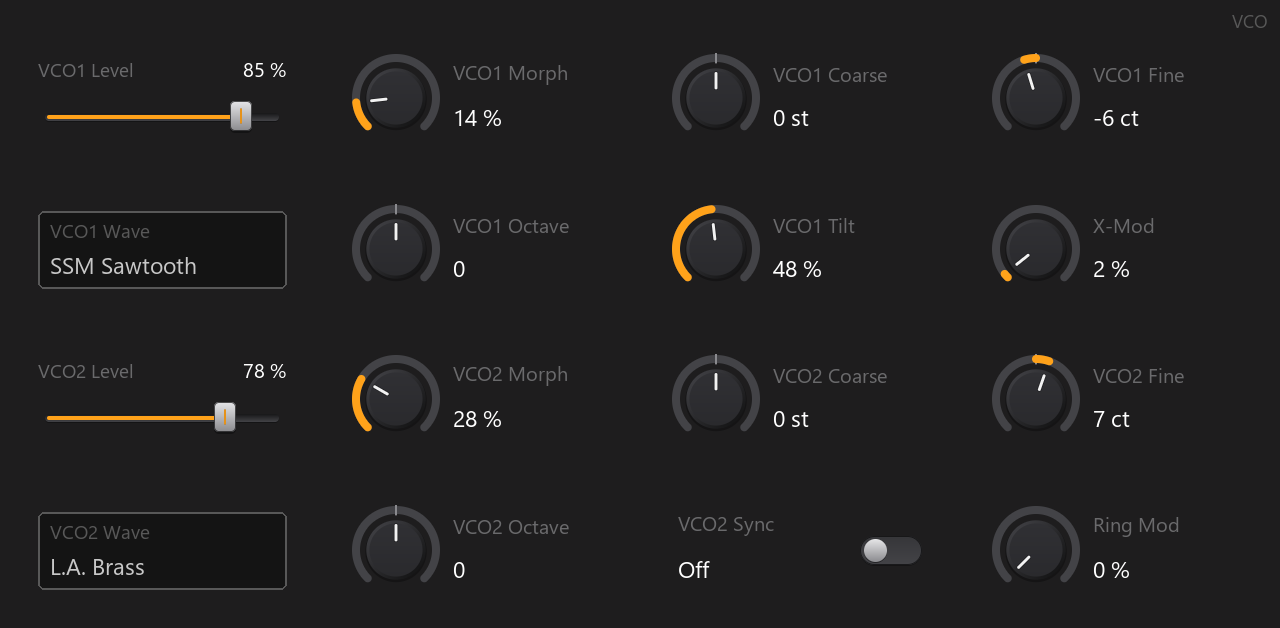
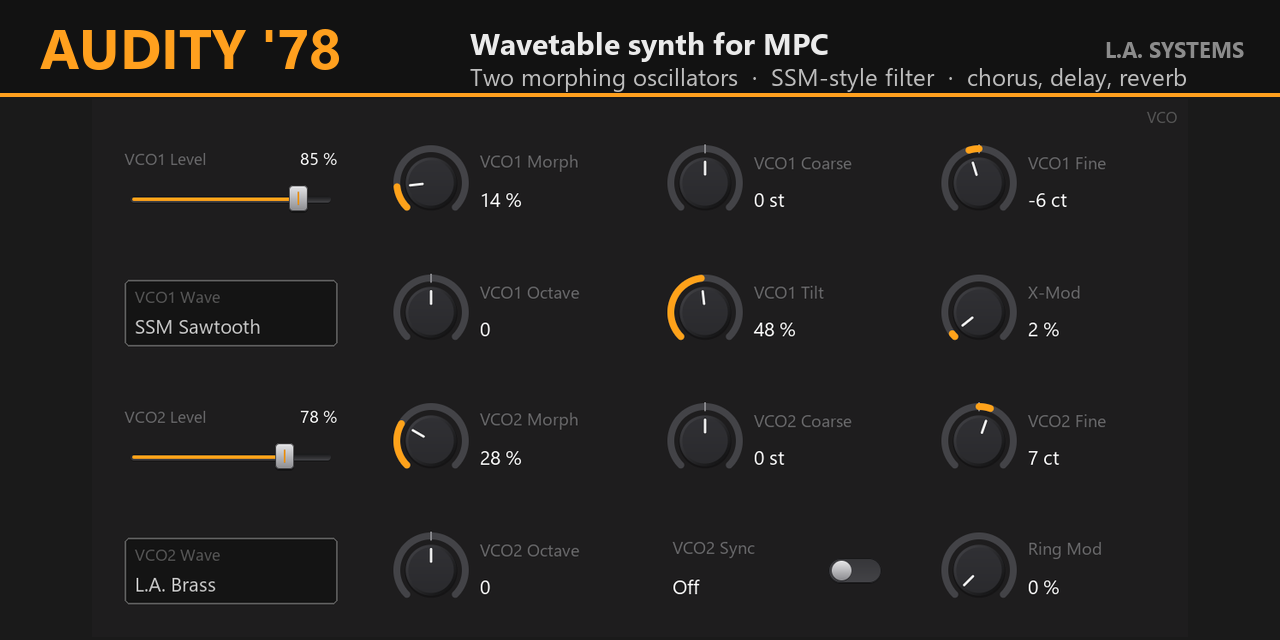
New catalog screenshot and per-page screenshots; catalog entry for 0.1.1
- docs/screenshots/audity-78.png (1280x640): rebuilt. The 0.1.0 image was a flat grey VCO page.
  New one is the real VCO page from the SDK previewer (ui_preview.py, default values, scaled to fit)
  under an L.A. Systems title band. No third-party name or logo anywhere in it.
- docs/screenshots/tab_{VCO,MIX,FILTER,ENV,LFO,FX}.png and contact_sheet.png: all six pages, rendered
  from a temp copy of ui.json with the string "empty" entries replaced by {"widget":"empty"} (the
  previewer crashes on the strings; the repo's ui.json is unchanged).
- README.md: hero is now the screenshot above, with a note on how it was drawn.
- publish/catalog-entry.json: screenshot pinned to v0.1.1; summary now mentions aliasing (review
  point 3, 130 chars, ASCII); "analog" tag dropped (review point 4).

diff --git a/README.md b/README.md
@@ -1,5 +1,9 @@
 # Audity '78
 
+![Audity '78 on the MPC screen](docs/screenshots/audity-78.png)
+
+*The plugin's own touch-screen pages, drawn by the SDK previewer at default values. All six pages: [`docs/screenshots/contact_sheet.png`](docs/screenshots/contact_sheet.png).*
+
 **Lumina Aerospace LLC.** A wavetable synthesizer (16 voices in the reference, 8 on the MPC) after the 1978 Audity prototype, carrying the **L.A.** (Lumina.Aerospace) mark (the original is out of production): two wavetable oscillators, an SSM2040-style 24 dB low-pass and 12 dB high-pass, two transient generators, a five-shape LFO, noise and ring mod, and a stereo effects stage. It ships with 128 factory patches in eight banks.
 
 > **Independent project.** Audity '78 is by Lumina Aerospace LLC and is not affiliated with the makers of the original instrument. All waveforms are synthesised in code (`src/data/wavetables.ts`); no third-party ROM or sample data is included.
